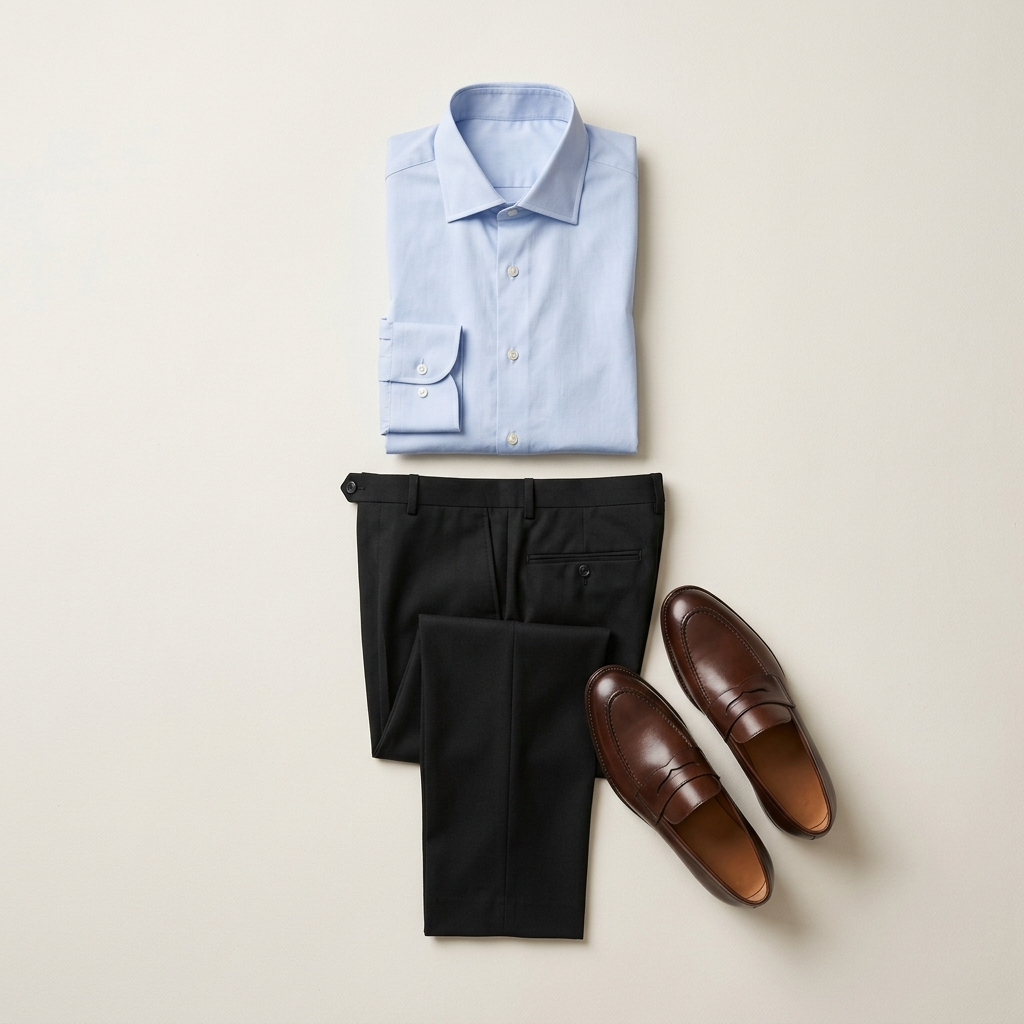
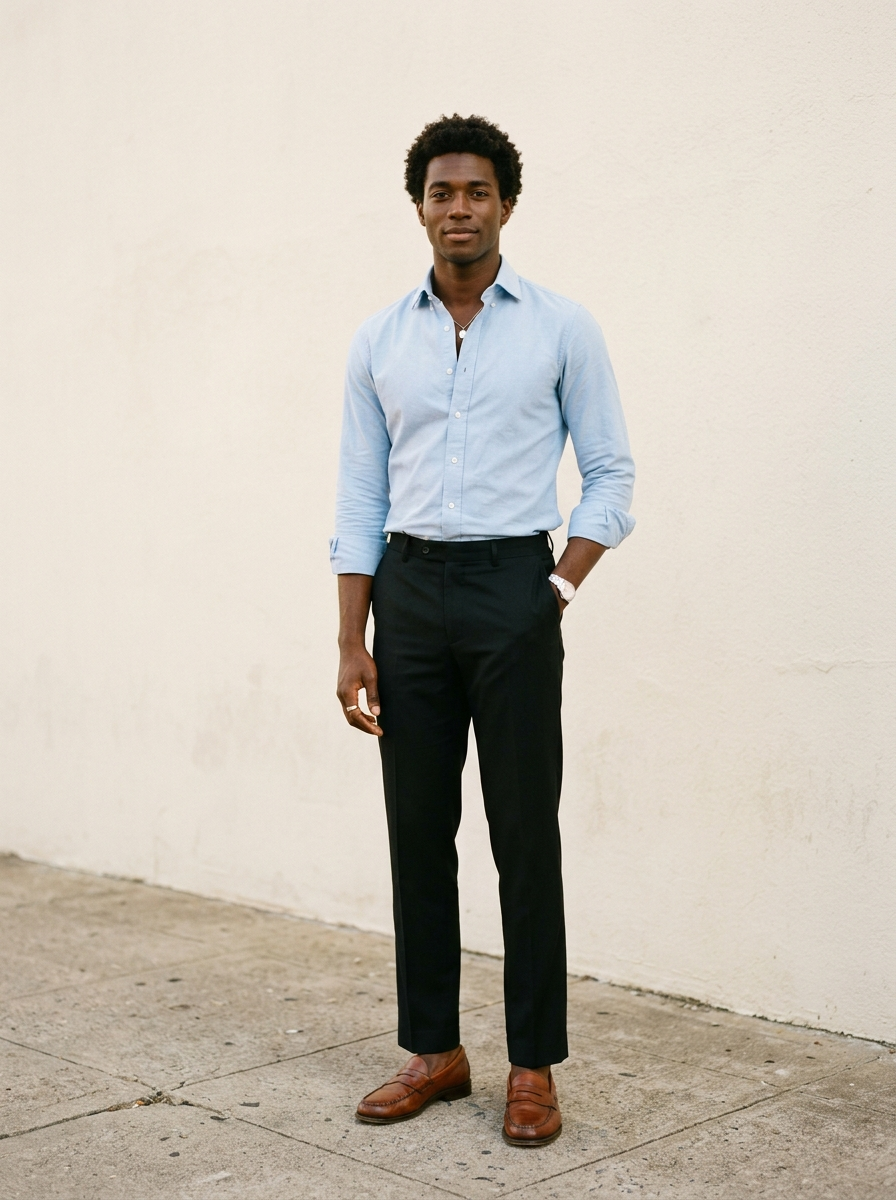
feat: swipes con gente (estilo Tinder) + arquetipo de gustos
- swipes ahora muestran personas con outfit (street-style), no flat-lays;
  23 imágenes con diversidad de cuerpos/piel, género consistente
  (unisex en versión hombre y mujer; looksForGender resuelve la imagen)
- arquetipo de estilo: tras los swipes Claude sintetiza un perfil nombrado
  ('Minimalista afilado') y se le revela a la persona; migración 0010
- el arquetipo entra al motor como contexto rico (mejor que tags sueltos)
- verificado hombre end-to-end: swipes con gente → reveal → guardado

diff --git a/app/onboarding/gustos/swipe-deck.tsx b/app/onboarding/gustos/swipe-deck.tsx
@@ -2,8 +2,10 @@
 
 import { useRef, useState, useTransition } from "react";
 import Image from "next/image";
+import Link from "next/link";
 import type { Look } from "@/lib/looks";
 import { saveTastes, type SwipeResult } from "./actions";
+import type { StyleArchetype } from "@/lib/engine/archetype";
 
 // Deck de swipes: el gesto (arrastrar) es el atajo, los botones ❤/✕ son el
 // camino garantizado (desktop + accesibilidad — spec P6). Sin librerías de
@@ -14,8 +16,18 @@ export function SwipeDeck({ looks }: { looks: Look[] }) {
   const [leaving, setLeaving] = useState<"left" | "right" | null>(null);
   const [drag, setDrag] = useState({ x: 0, active: false });
   const [error, setError] = useState<string | null>(null);
+  const [archetype, setArchetype] = useState<StyleArchetype | null>(null);
   const [pending, startTransition] = useTransition();
   const startX = useRef(0);
+
+  function finalizar(all: SwipeResult[]) {
+    startTransition(async () => {
+      setError(null);
+      const res = await saveTastes(all);
+      if ("error" in res) setError(res.error);
+      else setArchetype(res.archetype);
+    });
+  }
 
   const look = looks[index];
   const done = index >= looks.length;
@@ -29,12 +41,7 @@ export function SwipeDeck({ looks }: { looks: Look[] }) {
       setDrag({ x: 0, active: false });
       setResults(next);
       setIndex(index + 1);
-      if (next.length === looks.length) {
-        startTransition(async () => {
-          const res = await saveTastes(next);
-          if (res?.error) setError(res.error);
-        });
-      }
+      if (next.length === looks.length) finalizar(next);
     }, 200);
   }
 
@@ -56,30 +63,46 @@ export function SwipeDeck({ looks }: { looks: Look[] }) {
   }
 
   if (done) {
+    if (error) {
+      return (
+        <div className="flex flex-1 flex-col items-center justify-center gap-4 text-center">
+          <p className="text-base text-error">{error}</p>
+          <button
+            type="button"
+            onClick={() => finalizar(results)}
+            disabled={pending}
+            className="min-h-12 rounded-full bg-accent px-8 text-base font-medium text-on-accent transition-colors duration-200 hover:bg-accent-deep disabled:opacity-50"
+          >
+            Reintentar
+          </button>
+        </div>
+      );
+    }
+
+    // Reveal del arquetipo de estilo: el momento "me veo reflejada".
+    if (archetype) {
+      return (
+        <div className="flex flex-col gap-6 rounded-2xl border border-line bg-surface p-6 shadow-[var(--shadow-hairline)]">
+          <div className="flex flex-col gap-2 text-center">
+            <p className="text-sm text-muted">Tu estilo es</p>
+            <h2 className="text-h1 font-semibold text-ink">{archetype.nombre}</h2>
+            <p className="editorial text-base text-muted">
+              {archetype.descripcion}
+            </p>
+          </div>
+          <Link
+            href="/onboarding/colorimetria"
+            className="flex min-h-12 items-center justify-center rounded-full bg-accent text-base font-medium text-on-accent transition-colors duration-200 hover:bg-accent-deep"
+          >
+            Sigamos con tus colores
+          </Link>
+        </div>
+      );
+    }
+
     return (
       <div className="flex flex-1 flex-col items-center justify-center gap-4 text-center">
-        {error ? (
-          <>
-            <p className="text-base text-error">{error}</p>
-            <button
-              type="button"
-              onClick={() =>
-                startTransition(async () => {
-                  setError(null);
-                  const res = await saveTastes(results);
-                  if (res?.error) setError(res.error);
-                })
-              }
-              className="min-h-12 rounded-full bg-accent px-8 text-base font-medium text-on-accent transition-colors duration-200 hover:bg-accent-deep"
-            >
-              Reintentar
-            </button>
-          </>
-        ) : (
-          <p className="editorial text-lg text-ink">
-            ya te voy conociendo…
-          </p>
-        )}
+        <p className="editorial text-lg text-ink">leyendo tu estilo…</p>
       </div>
     );
   }

diff --git a/lib/engine/archetype.ts b/lib/engine/archetype.ts
@@ -1,0 +1,55 @@
+import Anthropic from "@anthropic-ai/sdk";
+import type { Look } from "@/lib/looks";
+
+export type StyleArchetype = {
+  nombre: string;
+  descripcion: string;
+};
+
+// A partir de los looks que le encantaron a la persona, sintetiza un arquetipo
+// de estilo nombrado (en voz amiga cool). Se le revela y entra al motor.
+export async function generateArchetype(
+  likedLooks: Look[]
+): Promise<StyleArchetype> {
+  if (!process.env.ANTHROPIC_API_KEY) throw new Error("ENGINE_NOT_CONNECTED");
+
+  const client = new Anthropic();
+  const resumen = likedLooks
+    .map((l) => `- ${l.nombre} (${l.vibe}) · ${l.tags.join(", ")}`)
+    .join("\n");
+
+  const response = await client.messages.create({
+    model: "claude-opus-4-8",
+    max_tokens: 512,
+    system: `Eres la stylist de stailist, la amiga cool que se viste increíble. A partir de los looks que le encantaron a alguien, le pones nombre a su estilo.
+
+- nombre: 2-3 palabras con personalidad ("Minimalista cálido", "Clásico relajado", "Atrevida con raíz"). Sin género gramatical forzado.
+- descripcion: UNA línea cálida que la haga sentirse vista. Tuteo, cero jerga técnica de moda. Ej: "te van las cosas simples pero con un twist que se nota".`,
+    messages: [
+      {
+        role: "user",
+        content: `Looks que le encantaron:\n${resumen}\n\nPonle nombre a su estilo.`,
+      },
+    ],
+    output_config: {
+      format: {
+        type: "json_schema",
+        schema: {
+          type: "object",
+          properties: {
+            nombre: { type: "string" },
+            descripcion: { type: "string" },
+          },
+          required: ["nombre", "descripcion"],
+          additionalProperties: false,
+        },
+      },
+    },
+  });
+
+  const text = response.content.find((b) => b.type === "text")?.text;
+  if (!text) throw new Error("EMPTY_RESPONSE");
+  const parsed = JSON.parse(text) as StyleArchetype;
+  if (!parsed.nombre || !parsed.descripcion) throw new Error("BAD_ARCHETYPE");
+  return parsed;
+}

diff --git a/app/onboarding/gustos/actions.ts b/app/onboarding/gustos/actions.ts
@@ -2,13 +2,16 @@
 
 import { redirect } from "next/navigation";
 import { createClient } from "@/lib/supabase/server";
-import { computeTasteTags, LOOK_IDS } from "@/lib/looks";
+import { computeTasteTags, LOOKS, LOOK_IDS } from "@/lib/looks";
+import { generateArchetype, type StyleArchetype } from "@/lib/engine/archetype";
 
 export type SwipeResult = { id: string; liked: boolean };
 
+// Devuelve el arquetipo para revelarlo en pantalla (no redirige: el reveal
+// vive en el paso de gustos, como el de colorimetría). Error → string.
 export async function saveTastes(
   results: SwipeResult[]
-): Promise<{ error: string } | never> {
+): Promise<{ archetype: StyleArchetype } | { error: string }> {
   const clean = results.filter(
     (r) => LOOK_IDS.has(r.id) && typeof r.liked === "boolean"
   );
@@ -24,10 +27,26 @@ export async function saveTastes(
 
   const tasteTags = computeTasteTags(clean);
 
+  // Arquetipo a partir de los looks con ❤. Si la IA falla, seguimos sin
+  // arquetipo (no bloquea el onboarding) con un fallback neutro.
+  const likedLooks = LOOKS.filter(
+    (l) => clean.find((r) => r.id === l.id)?.liked
+  );
+  let archetype: StyleArchetype;
+  try {
+    archetype = await generateArchetype(likedLooks);
+  } catch {
+    archetype = {
+      nombre: "Tu estilo",
+      descripcion: "te gustan las cosas que se sienten tuyas.",
+    };
+  }
+
   const { error } = await supabase
     .from("profiles")
     .update({
       taste_tags: tasteTags,
+      style_archetype: archetype,
       onboarding_step: 2,
       updated_at: new Date().toISOString(),
     })
@@ -42,8 +61,8 @@ export async function saveTastes(
   await supabase.from("events").insert({
     user_id: user.id,
     type: "onboarding_step",
-    data: { step: 2, swipes: clean, taste_tags: tasteTags },
+    data: { step: 2, swipes: clean, taste_tags: tasteTags, archetype },
   });
 
-  redirect("/onboarding/colorimetria");
+  return { archetype };
 }

diff --git a/lib/looks.ts b/lib/looks.ts
@@ -216,9 +216,17 @@ export const LOOKS: Look[] = [
 
 export const LOOK_IDS = new Set(LOOKS.map((l) => l.id));
 
-// Looks del género elegido + los unisex (sirven a ambos).
+// Looks del género elegido + los unisex, con la imagen de gente resuelta para
+// ese género: los unisex tienen una versión por género (<id>-<genero>.png);
+// los específicos una sola (<id>.png).
 export function looksForGender(gender: "hombre" | "mujer"): Look[] {
-  return LOOKS.filter((l) => l.segment === "unisex" || l.segment === gender);
+  return LOOKS.filter(
+    (l) => l.segment === "unisex" || l.segment === gender
+  ).map((l) => ({
+    ...l,
+    image:
+      l.segment === "unisex" ? `/looks/${l.id}-${gender}.png` : `/looks/${l.id}.png`,
+  }));
 }
 
 // Taste vector: tags de looks con ❤ suman, los de ✕ restan. Se quedan los

diff --git a/lib/engine/prompt.ts b/lib/engine/prompt.ts
@@ -24,6 +24,7 @@ export type EngineItem = {
 export type EngineContext = {
   objective: string | null;
   tasteTags: string[];
+  archetype: { nombre: string; descripcion: string } | null;
   season: Season | null;
   items: EngineItem[];
   weather: Weather | null;
@@ -70,8 +71,13 @@ export function buildUserMessage(ctx: EngineContext): string {
     );
   }
 
+  if (ctx.archetype) {
+    lines.push(
+      `Su estilo: "${ctx.archetype.nombre}" — ${ctx.archetype.descripcion}`
+    );
+  }
   if (ctx.tasteTags.length > 0) {
-    lines.push(`Su estilo (de sus swipes): ${ctx.tasteTags.join(", ")}.`);
+    lines.push(`Tags de gusto: ${ctx.tasteTags.join(", ")}.`);
   }
 
   if (ctx.weather) {

diff --git a/app/api/generate/route.ts b/app/api/generate/route.ts
@@ -74,6 +74,7 @@ export async function POST(request: NextRequest) {
         const outfits = await generateOutfits({
           objective: profile.last_objective,
           tasteTags: (profile.taste_tags ?? []) as string[],
+          archetype: (profile.style_archetype as { nombre: string; descripcion: string } | null) ?? null,
           season: profile.palette_season as Season | null,
           items,
           weather,

diff --git a/app/api/look-of-day/route.ts b/app/api/look-of-day/route.ts
@@ -92,6 +92,7 @@ export async function POST(request: NextRequest) {
         const outfits = await generateOutfits({
           objective: profile.last_objective,
           tasteTags: (profile.taste_tags ?? []) as string[],
+          archetype: (profile.style_archetype as { nombre: string; descripcion: string } | null) ?? null,
           season: profile.palette_season as Season | null,
           items,
           weather,
